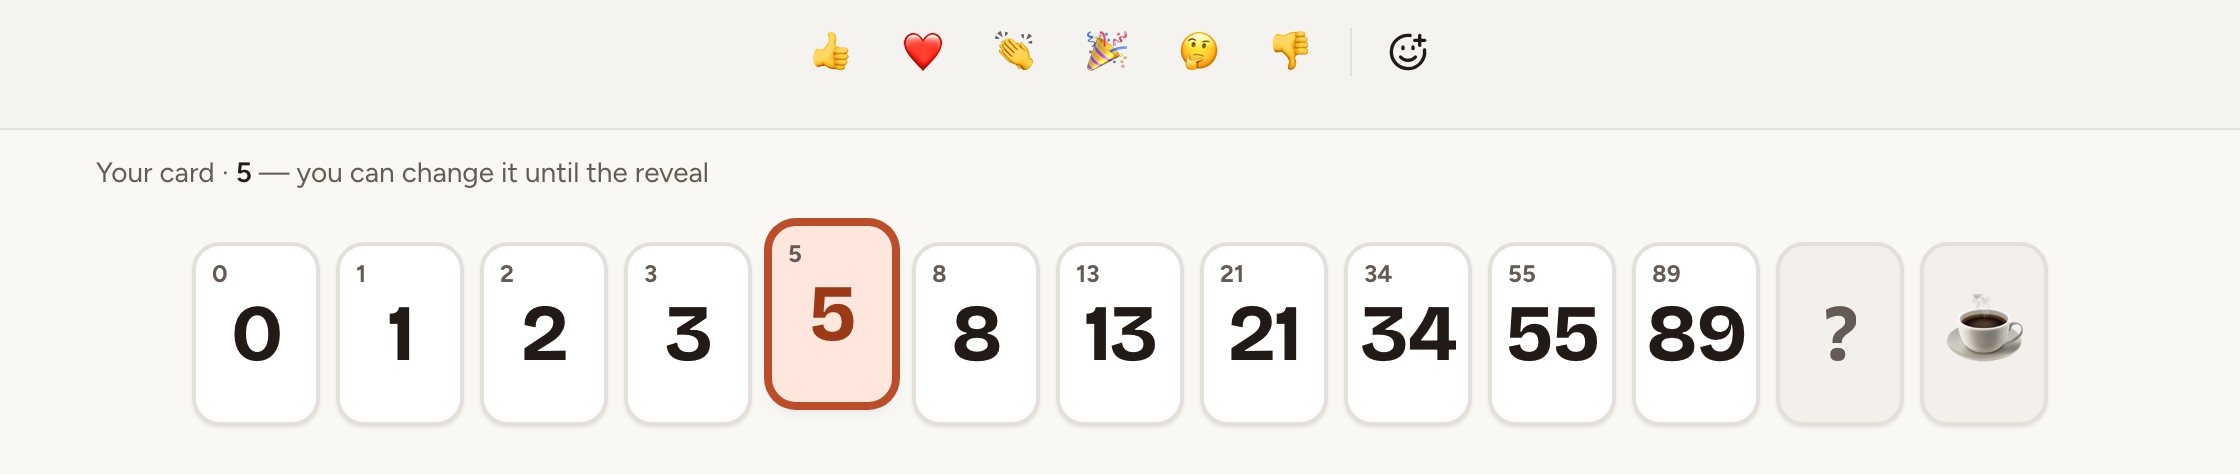
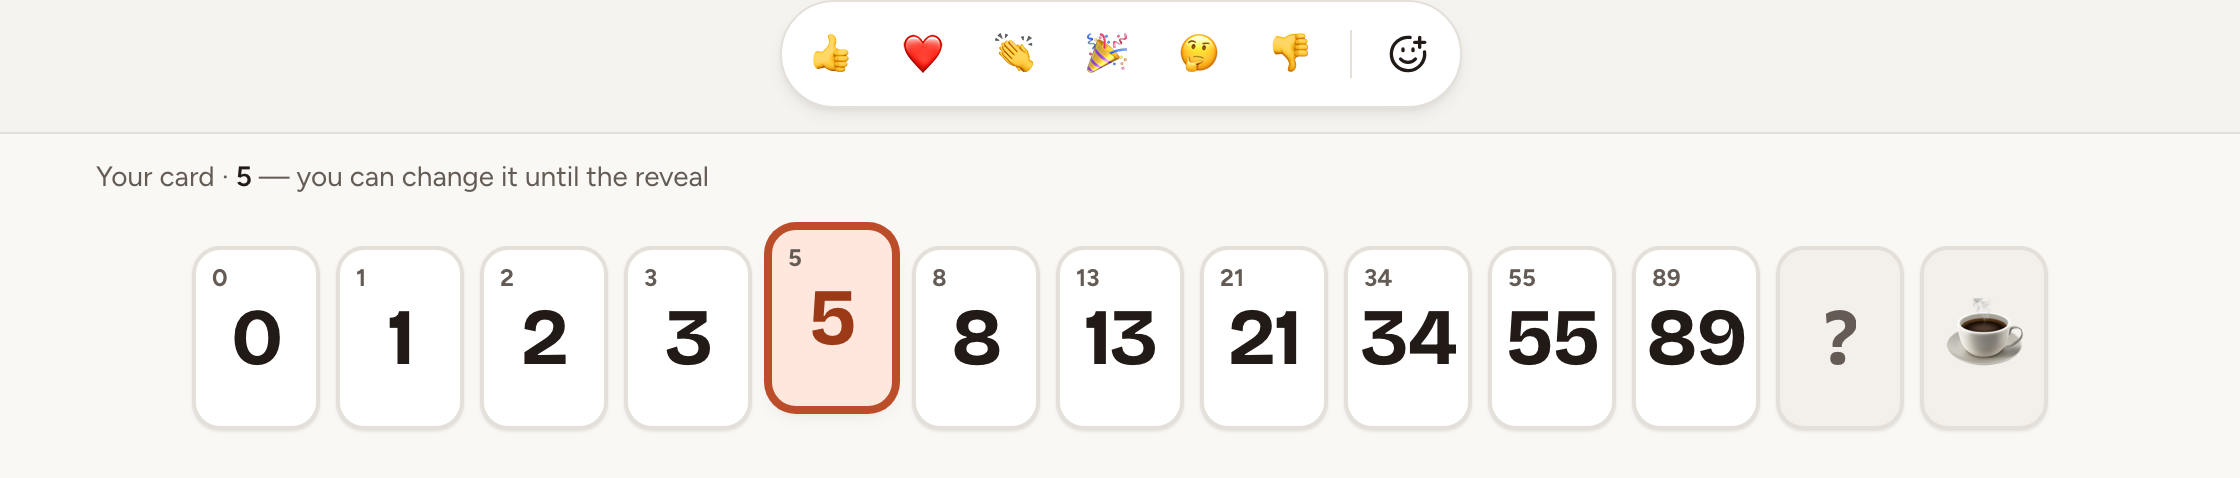
Unify reaction bars with shared pill styling

diff --git a/resources/js/components/skrum/reaction-bar.tsx b/resources/js/components/skrum/reaction-bar.tsx
@@ -407,13 +407,8 @@ export function ReactionBar({
                 style={style}
                 onKeyDown={moveFocus}
                 className={cn(
-                    'flex items-center gap-0.5 p-1',
-                    isFloating &&
-                        !disabled &&
-                        'rounded-full border border-border bg-popover shadow-raised',
-                    isFloating &&
-                        disabled &&
-                        'rounded-full border border-border bg-popover',
+                    'flex items-center gap-0.5 rounded-full border border-border bg-popover p-1',
+                    !disabled && 'shadow-raised',
                     className,
                 )}
             >

diff --git a/resources/js/components/games/game-room.tsx b/resources/js/components/games/game-room.tsx
@@ -21,9 +21,6 @@ type GameRoomProps = {
     snapshot: GameSnapshot;
 };
 
-const reactionBarClass =
-    'rounded-full border border-border bg-popover shadow-raised';
-
 export function RoomFull({ maxPlayers }: { maxPlayers: number }) {
     const { t } = useTrans();
 
@@ -169,7 +166,6 @@ export function GameRoom({ snapshot: initial }: GameRoomProps) {
                                 compact={isMobile}
                                 shortcuts={!isTyping}
                                 emojiData={snapshot.emojiData}
-                                toolbarProps={{ className: reactionBarClass }}
                             />
                         ) : undefined
                     }

diff --git a/resources/js/components/skrum/reaction-bar.test.tsx b/resources/js/components/skrum/reaction-bar.test.tsx
@@ -386,11 +386,11 @@ describe('ReactionBar', () => {
         );
     });
 
-    it('has no shadow pill when inline', () => {
+    it('uses the same pill when inline', () => {
         renderWithProviders(<ReactionBar onReact={vi.fn()} variant="inline" />);
 
         expect(
             screen.getByRole('toolbar', { name: 'Reactions' }).className,
-        ).not.toContain('shadow-raised');
+        ).toContain('shadow-raised');
     });
 });
